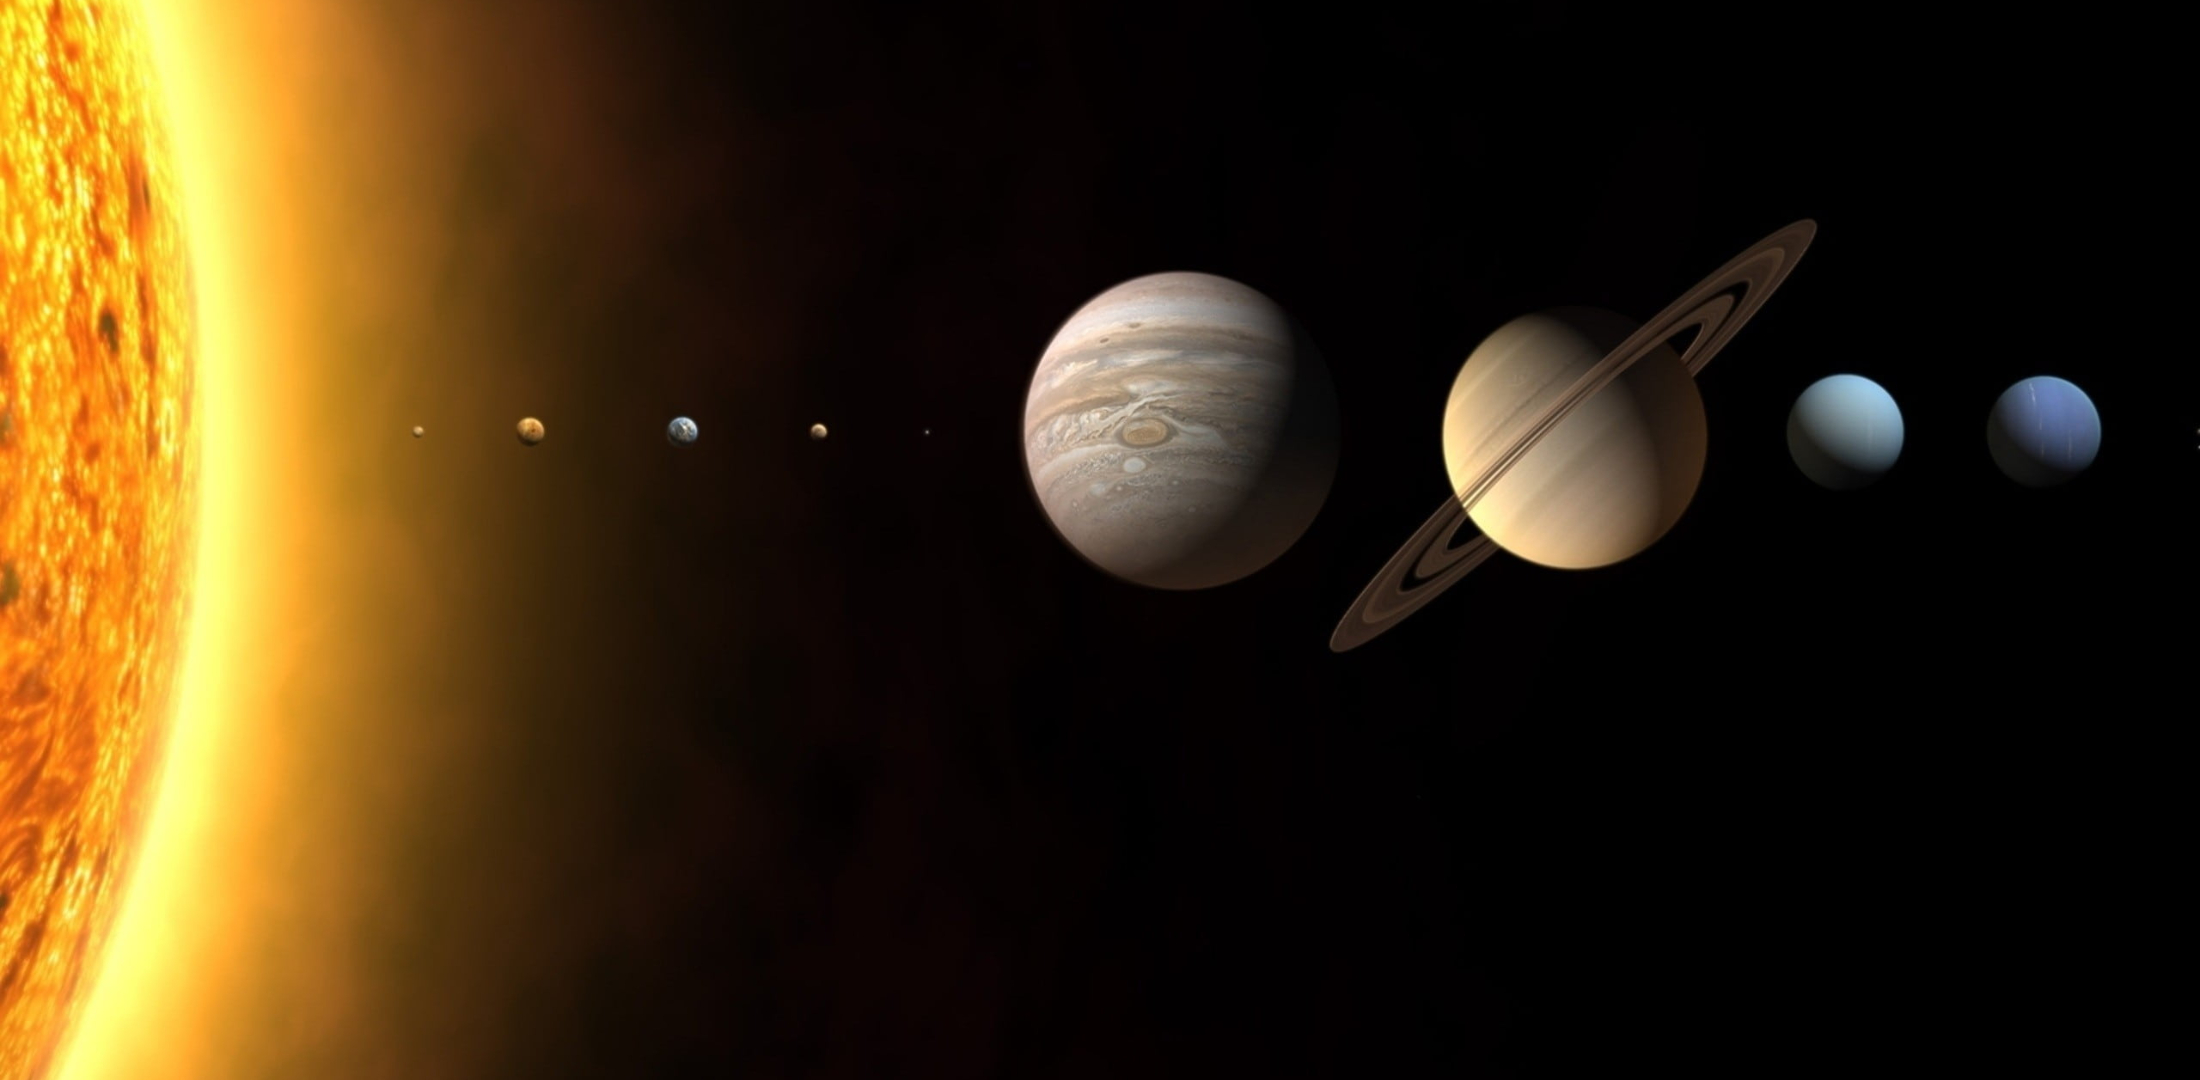
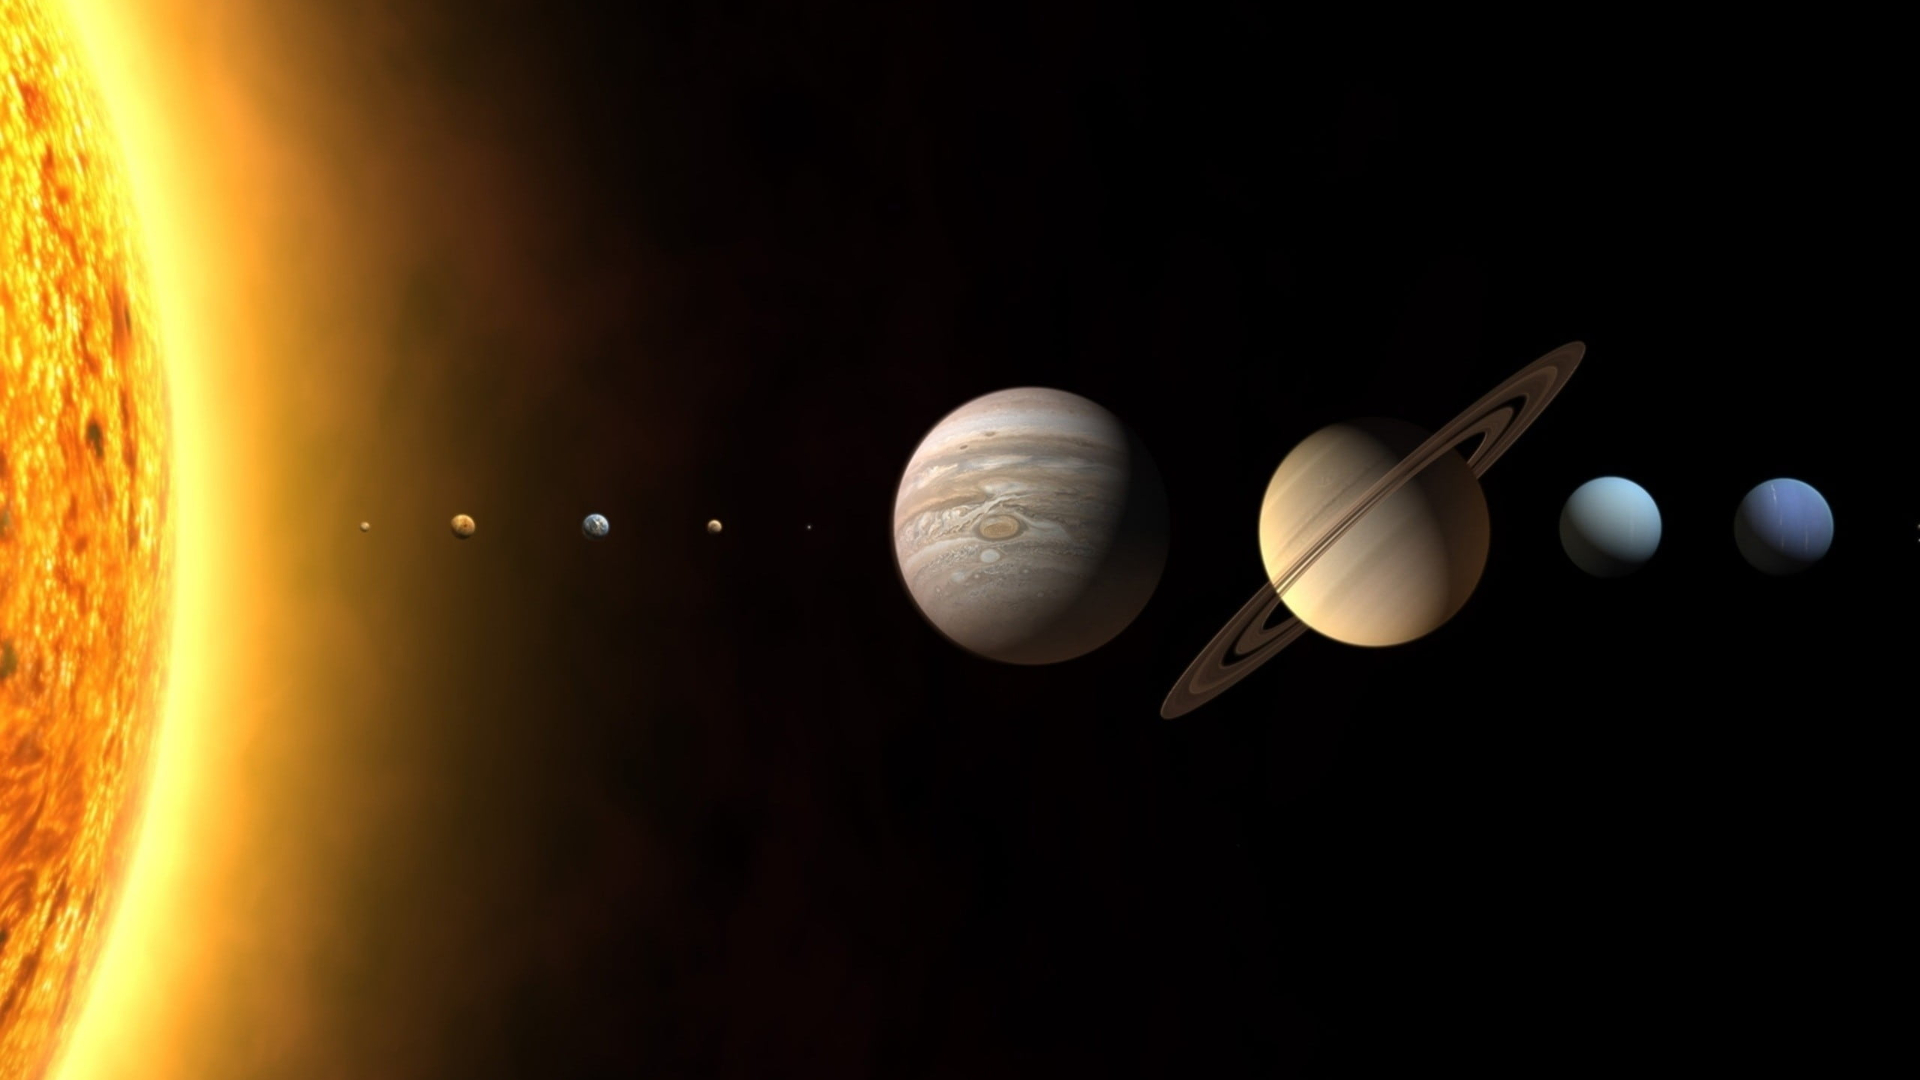
SolarSystemPlanets-PC-Bugfixing

diff --git a/style.css b/style.css
@@ -122,11 +122,11 @@ ul {
 }
 #Jupiter-PC {
   margin-top: 200px;
-  margin-left: 270px;
+  margin-left: 250px;
 }
 #Saturn-PC {
   margin-top: 200px;
-  margin-left: 350px;
+  margin-left: 300px;
 }
 #Uranus-PC {
   margin-top: 200px;
@@ -134,9 +134,9 @@ ul {
 }
 #Neptune-PC {
   margin-top: 200px;
-  margin-left: 110px;
+  margin-left: 100px;
 }
 #Pluto-PC {
-  margin-top: 150px;
-  margin-left: -75px;
+  margin-top: 200px;
+  margin-left: 30px;
 }
